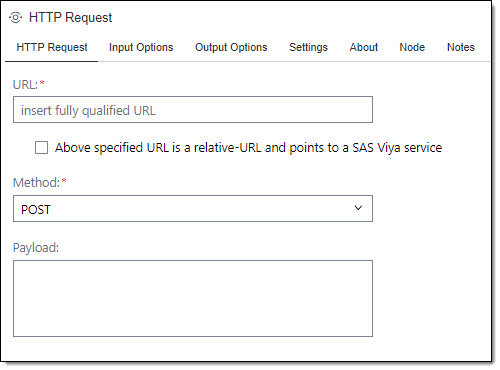
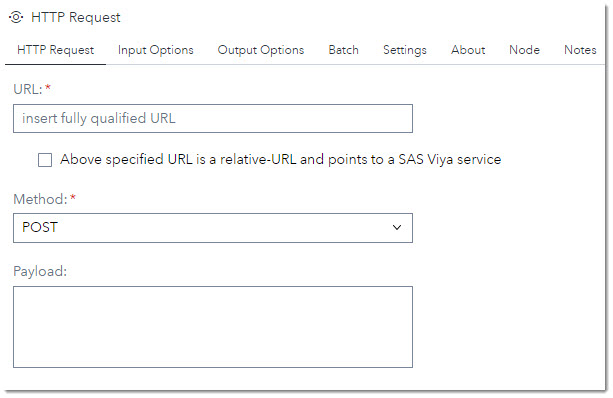
Change documentation for v1.1

diff --git a/HTTP Request/README.md b/HTTP Request/README.md
@@ -49,7 +49,6 @@ At the Input Options tab you specify  input parameters for the HTTP request.
    ||| **No Auth** - Specifies that no authorization is used for the HTTP request. |
    ||| **Basic Auth** - Specifies to use user identity authentication to authenticate the connected server. The user name and password are supplied in the fields *Username* and *Password*. |
    ||| **Bearer Token** - Specifies to send an OAuth access token along with the HTTP call. The token value is supplied in field *Token*. This can be a direct token value or a SAS macro variable carrying the token. |
-   | Timeout | | Set the number of seconds of inactivity to wait before cancelling the HTTP request. 0 indecates no timeout. |
 
 ### Output Options tab<a name="outputoptionstab-"></a> 
 At the Output Options tab you specify how to receive the data comming back from the HTTP request.
@@ -83,20 +82,35 @@ In the Header Mapping section you can map tags from the HTTP header result to SA
    | Edit Line | Set the tag and macro variable name to map. The mapping format is: *Header Tag : Macro Variable Name* |
    | Tag name is case sensitive | Indicate to look for the tag in case sensitive mode. Default is *not case sensitive*. |
    
-#### Options<a name="options-"></a> 
-Under Options you can set additional options.
+### Settings tab<a name="settingstab-"></a>
+At the Settings tab can you switch on/off hyperlinks in the UI.
+
+   <img src="img/HTTPRequest-Settings-fl.jpg" width="568" height="481">
+
+#### Timeout<a timeout="debug-"></a> 
+Under Timeout you can set how long a HTTP request is waiting to receive an answer.
+   | UI Field | Comment|
+   | --- | --- |
+   | Timeout | Set the number of seconds of inactivity to wait before cancelling the HTTP request. 0 indecates no timeout. |
+
+
+
+#### Debug<a name="debug-"></a> 
+Under Debug you can set the debug level to get additional log information.
 
    | UI Field | Comment|
    | --- | --- |
    | HTTP Debug Level | Set the debug level for this step. You can set level 1 - 3. Depending on the level PROC HTTP will write additional information to the log.<br>If you have set the [*Output Folder*](#httpoutputfolder-) the step will write a http json result file for each row (each http request execution) to the output folder. |
 
-### Settings tab<a name="settingstab-"></a>
-At the Settings tab can you switch on/off hyperlinks in the UI.
+#### Hyperlinks<a name="hyperlinks-"></a> 
+Under Hyperlinks can you switch on/off hyperlinks unsed in the UI.
 
-   <img src="img/HTTPRequest-Settings-fl.jpg" width="645" height="264">
 
-In the Step UI are hyper-links to deliver more information and help on some subjects. By default hyper-links in steps are disabled. The SAS Viya administrators can use SAS Environment Manager to enable this functionality and to specify the validation rules for links.<br>
-You can use the below validation rules for the links used in this step:
+   | UI Field | Comment|
+   | --- | --- |
+   | Show hyperlinks in step | In the Step UI are hyper-links to deliver more information and help on some subjects. By default hyper-links in steps are disabled. The SAS Viya administrators can use SAS Environment Manager to enable this functionality and to specify the validation rules for links. |
+   
+   You can use the below validation rules for the links used in this step:<br>
    ```
    ^https?:\/\/(?:.+\.)?github\.com(?::\d+)?(?:\/.*)?||^https?:\/\/(?:.+\.)?developer\.sas\.com(?::\d+)?(?:\/.*)?
    ```
@@ -163,9 +177,12 @@ For more example using the HTTP Request Step see [here](extras/README.md)
 ---
 
 ## Change Log<a name="changelog-"></a> 
+Version 1.1 (17NOV2024)<br>
+   * Added capability to submit batch requests
+
 Version 1.0.1 (17OCT2024)<br>
-* Increased size of variable containing URL payload
-* Changed UI labels from using term "macro" to "SAS macro variable"<br>
+   * Increased size of variable containing URL payload
+   * Changed UI labels from using term "macro" to "SAS macro variable"<br>
 
 Version 1.0 (15OCT2024)<br>
    * Initial version 
